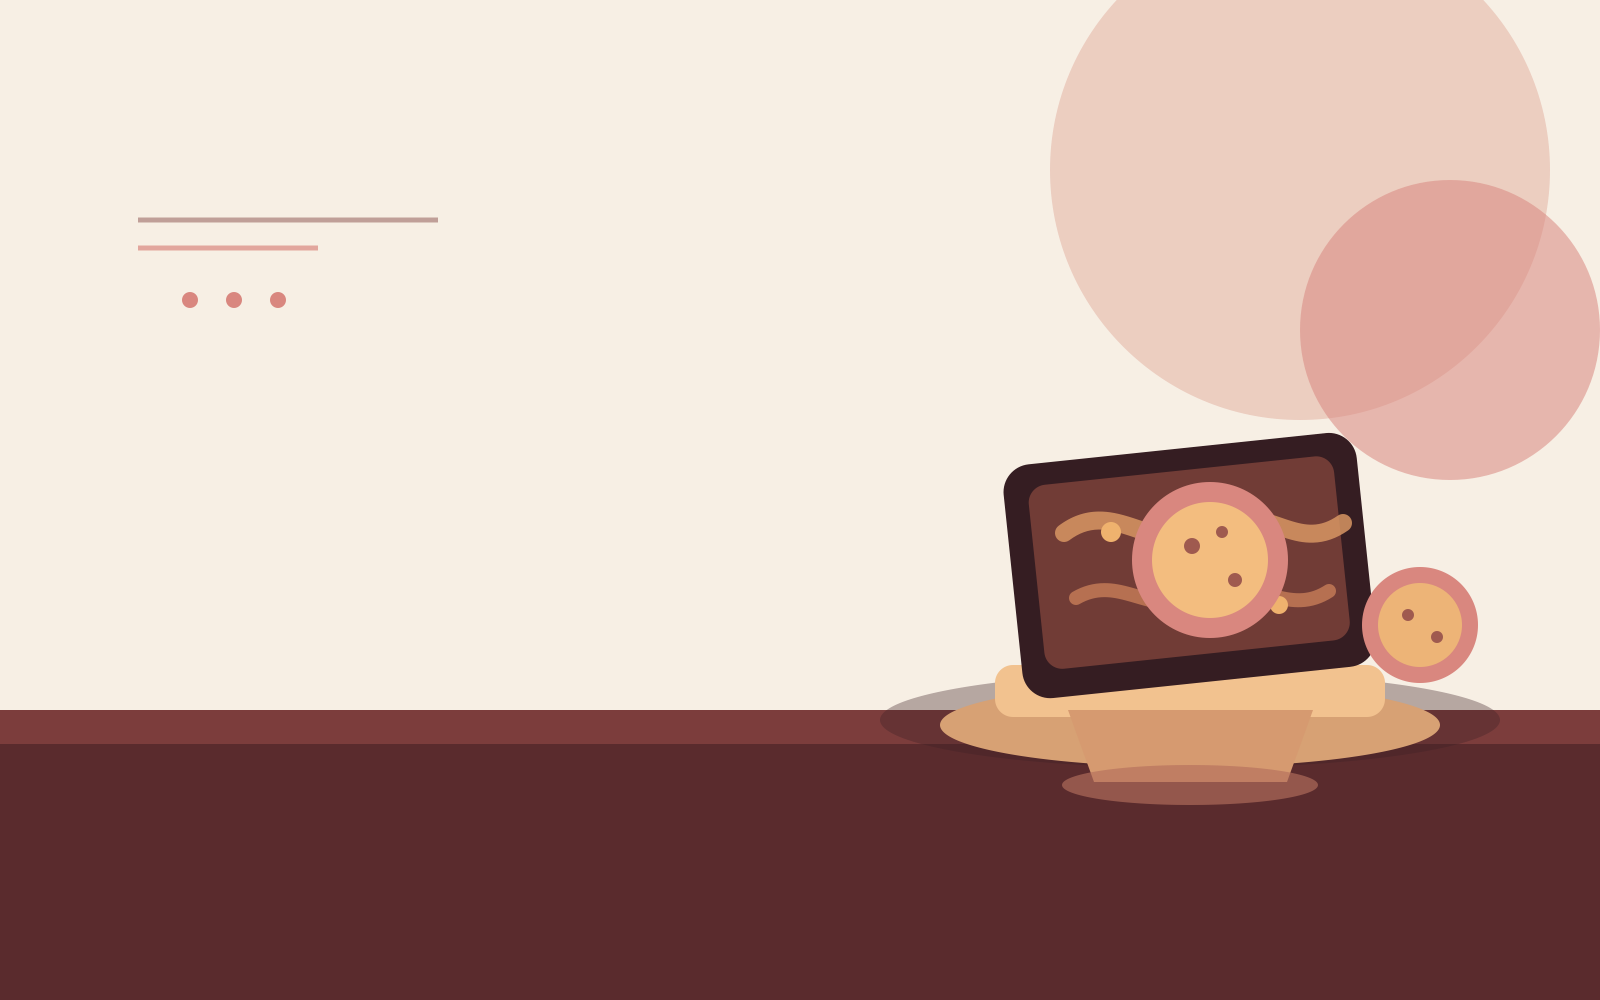
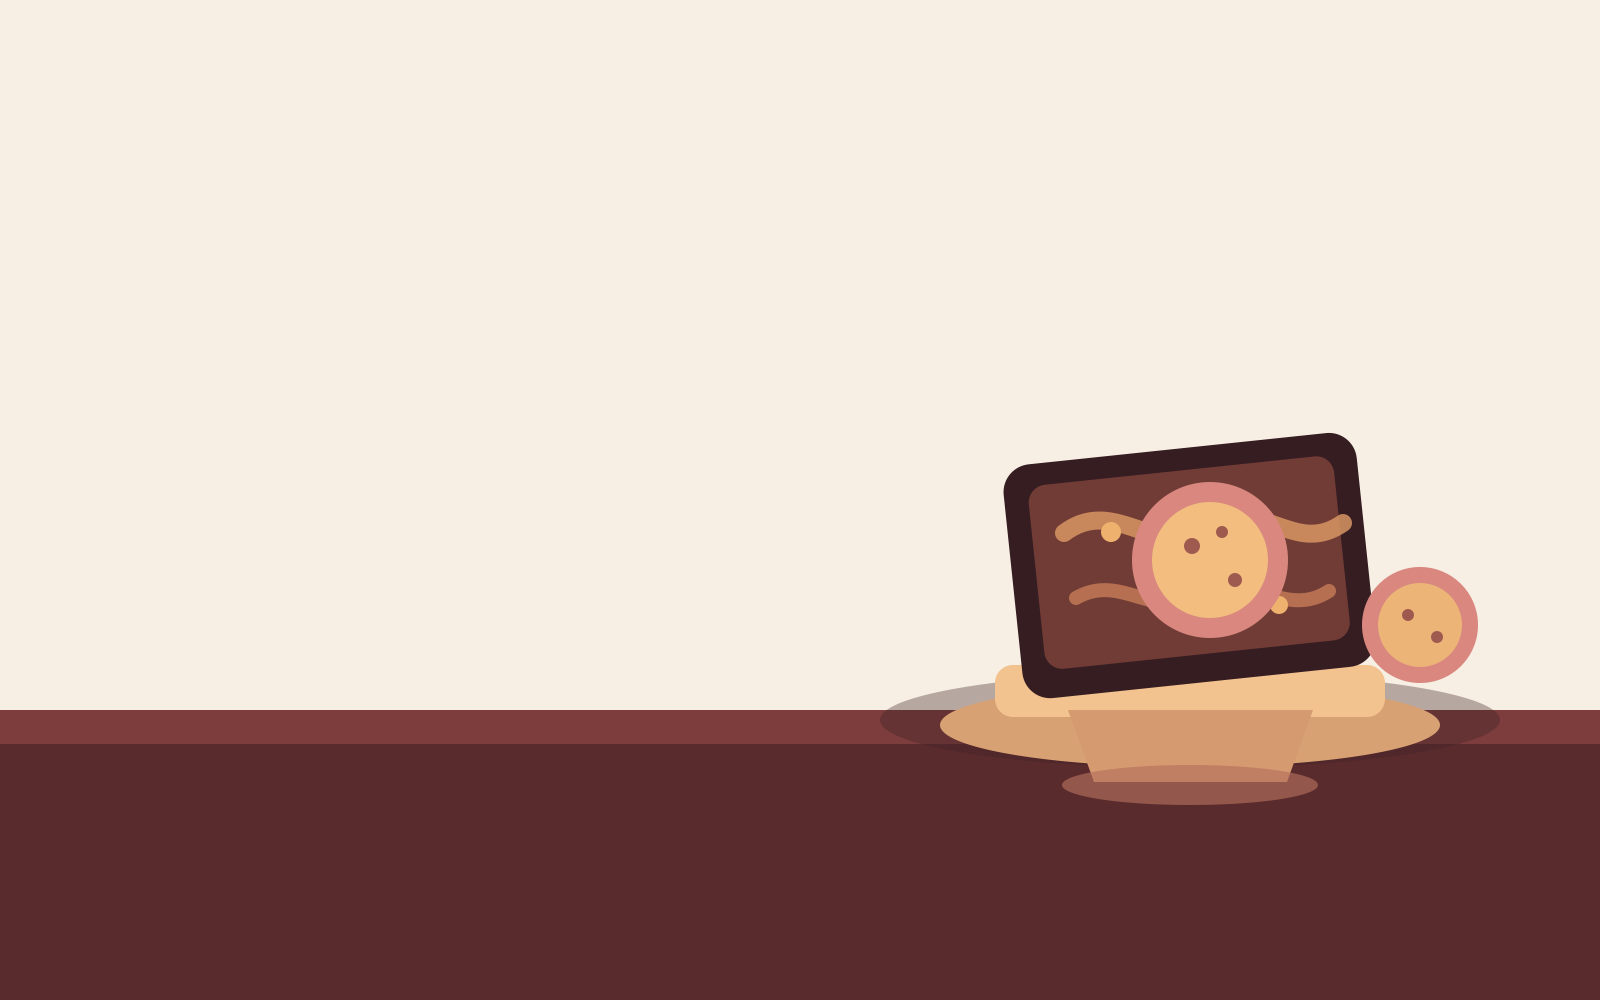
Remove background radial gradient ovals to ensure crisp text contrast and visibility

Changed region(s): [[0.6562, 0.0, 1.0, 0.496], [0.0938, 0.217, 0.2812, 0.248], [0.0938, 0.279, 0.1875, 0.31]]

diff --git a/src/app/(site)/page.tsx b/src/app/(site)/page.tsx
@@ -29,13 +29,12 @@ export default async function HomePage() {
           fill
           priority
           sizes="100vw"
-          className="object-cover object-center"
+          className="object-cover object-right md:object-center"
         />
-        <div className="absolute inset-0 bg-gradient-to-r from-[var(--color-background)] via-[var(--color-background)]/90 to-[var(--color-background)]/15" />
-        <div className="absolute inset-0 bg-[radial-gradient(circle_at_18%_30%,_rgba(217,138,143,0.16),_transparent_30%)]" />
+        <div className="absolute inset-0 bg-gradient-to-r from-[var(--color-background)] via-[var(--color-background)]/85 to-transparent" />
         <div className="homepage-hero-content relative z-10 mx-auto w-full max-w-(--container-max) px-4 py-12 sm:px-6 sm:py-28 lg:px-8">
           <div className="max-w-2xl text-[var(--color-foreground)]">
-            <span className="eyebrow border-[var(--color-border)] bg-[var(--color-surface)]/70 text-[var(--color-foreground)]">
+            <span className="eyebrow border-[var(--color-border)] bg-[var(--color-surface)] text-[var(--color-foreground)]">
               XOXO Patisserie · Chennai
             </span>
             <h1 className="mt-4 sm:mt-6 max-w-xl font-heading text-4xl sm:text-6xl lg:text-7xl leading-[1.05] sm:leading-[0.98]">{settings.heroHeading}</h1>
@@ -48,7 +47,7 @@ export default async function HomePage() {
                 nextAvailableMessage={settings.nextAvailableMessage}
                 whatsappNumber={settings.whatsappNumber}
               />
-              <Button asChild variant="outline" size="lg" className="bg-[var(--color-surface)]/65 w-full sm:w-auto">
+              <Button asChild variant="outline" size="lg" className="bg-[var(--color-surface)] w-full sm:w-auto">
                 <Link href="/menu">Browse Menu</Link>
               </Button>
             </div>
@@ -58,7 +57,7 @@ export default async function HomePage() {
                 { label: "Delivery", value: "Chennai" },
                 { label: "Freshness", value: "24h" },
               ].map((item) => (
-                <div key={item.label} className="rounded-xl sm:rounded-2xl border border-[var(--color-border)]/80 bg-[var(--color-surface)]/60 p-2.5 sm:p-4 backdrop-blur-sm">
+                <div key={item.label} className="rounded-xl sm:rounded-2xl border border-[var(--color-border)] bg-[var(--color-surface)] p-2.5 sm:p-4 shadow-xs">
                   <div className="text-[10px] sm:text-xs uppercase tracking-wider text-[var(--color-muted-foreground)]">{item.label}</div>
                   <div className="mt-1 font-heading text-sm sm:text-xl text-[var(--color-foreground)] font-semibold">{item.value}</div>
                 </div>

diff --git a/src/app/globals.css b/src/app/globals.css
@@ -71,9 +71,7 @@ button, a, input, select, textarea {
 }
 
 body {
-  background:
-    radial-gradient(circle at top, color-mix(in srgb, var(--color-primary) 9%, transparent), transparent 30%),
-    var(--color-background);
+  background: var(--color-background);
   color: var(--color-foreground);
   font-family: var(--font-body);
 }
@@ -103,22 +101,21 @@ img {
   align-items: center;
   gap: 0.5rem;
   border-radius: 9999px;
-  border: 1px solid color-mix(in srgb, var(--color-border) 90%, transparent);
-  background: rgba(255, 255, 255, 0.45);
-  padding: 0.5rem 0.9rem;
+  border: 1px solid var(--color-border);
+  background: var(--color-surface);
+  padding: 0.4rem 0.85rem;
   font-size: 0.7rem;
   font-weight: 700;
   letter-spacing: 0.12em;
   text-transform: uppercase;
   color: var(--color-foreground);
-  backdrop-filter: blur(10px);
+  box-shadow: 0 1px 3px rgba(36, 24, 17, 0.05);
 }
 
 .section-shell {
-  border: 1px solid color-mix(in srgb, var(--color-border) 90%, transparent);
-  background: rgba(255, 255, 255, 0.38);
-  box-shadow: 0 20px 45px rgba(43, 29, 20, 0.04);
-  backdrop-filter: blur(10px);
+  border: 1px solid var(--color-border);
+  background: var(--color-surface);
+  box-shadow: 0 4px 20px rgba(43, 29, 20, 0.04);
 }
 
 @media (prefers-reduced-motion: reduce) {
